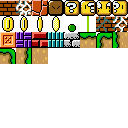
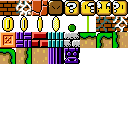
Bug fix, level 1 finished

Changed region(s): [[0.375, 0.375, 0.625, 0.5]]

diff --git a/02-Bubble/Scene.cpp b/02-Bubble/Scene.cpp
@@ -60,7 +60,7 @@ void Scene::init(int lvl)
 	if (lvl == 1){
 		// Ubicacions dels enemics en el nivell 1
 		enemies.clear();
-		enemies.resize(11);
+		enemies.resize(16);
 
 		enemies[0] = new Item();
 		enemies[0]->init(glm::vec2(SCREEN_X, SCREEN_Y), texProgram, 0);
@@ -103,9 +103,14 @@ void Scene::init(int lvl)
 		enemies[7]->setTileMap(map);
 
 		enemies[8] = new Item();
-		enemies[8]->init(glm::vec2(SCREEN_X, SCREEN_Y), texProgram, 1);
-		enemies[8]->setPosition(glm::vec2(88 * map->getTileSize(), 6 * map->getTileSize()));
+		enemies[8]->init(glm::vec2(SCREEN_X, SCREEN_Y), texProgram, 0);
+		enemies[8]->setPosition(glm::vec2(85 * map->getTileSize(), 6 * map->getTileSize()));
 		enemies[8]->setTileMap(map);
+
+		enemies[11] = new Item();
+		enemies[11]->init(glm::vec2(SCREEN_X, SCREEN_Y), texProgram, 1);
+		enemies[11]->setPosition(glm::vec2(85 * map->getTileSize(), 8 * map->getTileSize()));
+		enemies[11]->setTileMap(map);
 
 		enemies[9] = new Item();
 		enemies[9]->init(glm::vec2(SCREEN_X, SCREEN_Y), texProgram, 0);
@@ -117,14 +122,26 @@ void Scene::init(int lvl)
 		enemies[10]->setPosition(glm::vec2(100 * map->getTileSize(), 12 * map->getTileSize()));
 		enemies[10]->setTileMap(map);
 
+		enemies[12] = new Item();
+		enemies[12]->init(glm::vec2(SCREEN_X, SCREEN_Y), texProgram, 1);
+		enemies[12]->setPosition(glm::vec2(87 * map->getTileSize(), 3 * map->getTileSize()));
+		enemies[12]->setTileMap(map);
 
-		/*for (int e = 0; e < 3; ++e) {
-			enemies[e] = new Item();
-			if (e < 2) enemies[e]->init(glm::vec2(SCREEN_X, SCREEN_Y), texProgram, 1); // 1 = Koopa, 0 = Goomba
-			else enemies[e]->init(glm::vec2(SCREEN_X, SCREEN_Y), texProgram, 0);
-			enemies[e]->setPosition(glm::vec2(10 * map->getTileSize() + (e-1)*40, 10 * map->getTileSize()));
-			enemies[e]->setTileMap(map);
-		}*/
+		enemies[13] = new Item();
+		enemies[13]->init(glm::vec2(SCREEN_X, SCREEN_Y), texProgram, 0);
+		enemies[13]->setPosition(glm::vec2(57 * map->getTileSize(), 10 * map->getTileSize()));
+		enemies[13]->setTileMap(map);
+
+		enemies[14] = new Item();
+		enemies[14]->init(glm::vec2(SCREEN_X, SCREEN_Y), texProgram, 1);
+		enemies[14]->setPosition(glm::vec2(55 * map->getTileSize(), 10 * map->getTileSize()));
+		enemies[14]->setTileMap(map);
+
+		enemies[15] = new Item();
+		enemies[15]->init(glm::vec2(SCREEN_X, SCREEN_Y), texProgram, 1);
+		enemies[15]->setPosition(glm::vec2(59 * map->getTileSize(), 10 * map->getTileSize()));
+		enemies[15]->setTileMap(map);
+
 	}
 	else if (lvl == 2)
 	{

diff --git a/02-Bubble/TileMap.cpp b/02-Bubble/TileMap.cpp
@@ -240,7 +240,7 @@ bool TileMap::collisionMoveLeft(const glm::vec2 &pos, const glm::ivec2 &size, bo
 		}
 		else if (blockMatrix[y*mapSize.x + x] != NULL){
 			if (map[y*mapSize.x+x] < 0 && !blockMatrix[y * mapSize.x + x]->isBroken()){
-				if (map[y * mapSize.x + x] == -T_BREAKABLE && koopaBreak)
+				if (map[y * mapSize.x + x] == -T_BREAKABLE && koopaBreak && !blockMatrix[y*mapSize.x+x]->isBreaking())
 					blockMatrix[y * mapSize.x + x]->breakBlock();
 
 				return true;
@@ -293,7 +293,7 @@ bool TileMap::collisionMoveRight(const glm::vec2 &pos, const glm::ivec2 &size, b
 			return true;
 		}
 		else if (blockMatrix[y*mapSize.x + x] != NULL){
-			if (map[y*mapSize.x+x] < 0 && !blockMatrix[y * mapSize.x + x]->isBroken()){
+			if (map[y*mapSize.x+x] < 0 && !blockMatrix[y * mapSize.x + x]->isBroken()  && !blockMatrix[y*mapSize.x+x]->isBreaking()){
 				if (map[y * mapSize.x + x] == -T_BREAKABLE && koopaBreak)
 					blockMatrix[y * mapSize.x + x]->breakBlock();
 
@@ -333,7 +333,7 @@ bool TileMap::collisionMoveUp(const glm::vec2 &pos, const glm::ivec2 &size, floa
 		}
 		else if (blockMatrix[y*mapSize.x + x] != NULL){
 			if (map[y*mapSize.x+x] < 0 && !blockMatrix[y * mapSize.x + x]->isBroken()){
-				if (map[y * mapSize.x + x] == -T_BREAKABLE && bigMario) {
+				if (map[y * mapSize.x + x] == -T_BREAKABLE && bigMario && !blockMatrix[y*mapSize.x+x]->isBreaking()) {
 					blockMatrix[y * mapSize.x + x]->breakBlock();
 				} 
 				else if (map[y * mapSize.x + x] == -T_BREAKABLE) blockMatrix[y * mapSize.x + x]->bumpBlock();

diff --git a/02-Bubble/Sound.cpp b/02-Bubble/Sound.cpp
@@ -34,7 +34,7 @@ void Sound::init()
 	musicVect[MAINTHEME].setLoop(true);
 
 	musicVect[ZELDA].openFromFile("audio/zelda.ogg");
-	musicVect[ZELDA].setVolume(40);
+	musicVect[ZELDA].setVolume(35);
 	musicVect[ZELDA].setLoop(true);
 
 	musicVect[GOOMBA].openFromFile("audio/goomba.ogg");

diff --git a/02-Bubble/Block.h b/02-Bubble/Block.h
@@ -12,6 +12,7 @@ class Block
     void render();
     void breakBlock();
     bool isBroken();
+    bool isBreaking();
     void collectCoin(bool isCoinBlock);
 
     // Returns true if we need to animate a floating sprite

diff --git a/02-Bubble/Block.cpp b/02-Bubble/Block.cpp
@@ -136,3 +136,5 @@ void Block::collectCoin(bool isCoinBlock){
     Sound::instance().play(2); // Play coin sound
 
 }
+
+bool Block::isBreaking(){ return animBreak; }
